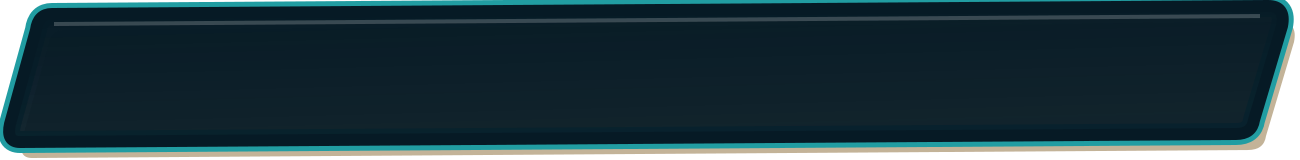
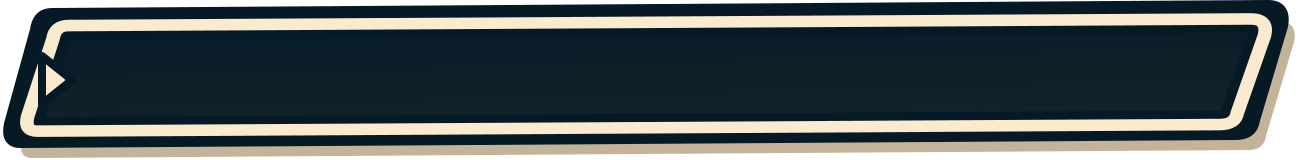
Improve Dashboard focus visibility and isolate Menu highlights

Changed region(s): [[0.0, 0.0, 1.0, 0.9688]]

diff --git a/src/client/flow/screens/shared.rs b/src/client/flow/screens/shared.rs
@@ -1,7 +1,10 @@
 //! Shared flow-screen roots, buttons, navigation, and interaction presentation.
 
 use super::{dashboard::DashboardButtonStyle, game_select::GameTypeSelectionDraft};
-use crate::client::{ClientLobbyMembership, flow::actions::FlowUiAction};
+use crate::client::{
+    ClientLobbyMembership,
+    flow::{actions::FlowUiAction, input::overlay_allows_button, model::ClientOverlay},
+};
 use bevy::{prelude::*, ui::InteractionDisabled};
 use lightyear::prelude::client::Client;
 
@@ -141,6 +144,13 @@ pub(in crate::client::flow) fn flow_button_background(
         if disabled {
             return Color::srgb(0.69, 0.71, 0.66);
         }
+        if focused && matches!(style, DashboardButtonStyle::Header) {
+            return if interaction == Interaction::Pressed {
+                CREAM.mix(&INK, 0.15)
+            } else {
+                CREAM
+            };
+        }
         let base = match style {
             DashboardButtonStyle::Play | DashboardButtonStyle::Header => ORANGE,
             DashboardButtonStyle::Build | DashboardButtonStyle::Practice => TEAL,
@@ -207,6 +217,7 @@ pub(in crate::client::flow) fn flow_button_border(
 )]
 pub(in crate::client::flow) fn update_flow_button_chrome(
     navigation: Res<FlowNavigation>,
+    overlay: Res<ClientOverlay>,
     assets: Option<Res<crate::client::ClientAssetHandles>>,
     game_draft: Res<GameTypeSelectionDraft>,
     memberships: Query<&ClientLobbyMembership, With<Client>>,
@@ -227,7 +238,14 @@ pub(in crate::client::flow) fn update_flow_button_chrome(
     for (button, interaction, disabled, mut background, mut border, dashboard_style, image) in
         &mut buttons
     {
-        let focused = button.index == navigation.selected;
+        // Use the same owner gate as input collection: indices are local to each surface.
+        let active = overlay_allows_button(&overlay, button);
+        let focused = active && button.index == navigation.selected;
+        let interaction = if active {
+            *interaction
+        } else {
+            Interaction::None
+        };
         let selected_game = match button.action {
             FlowUiAction::SelectGameTypeDraft(index) => game_draft.selected_index == Some(index),
             _ => false,
@@ -239,10 +257,10 @@ pub(in crate::client::flow) fn update_flow_button_chrome(
         let selected = selected_game || selected_brawler;
         let dashboard_style = dashboard_style.copied();
         background.0 =
-            flow_button_background(disabled, *interaction, focused, selected, dashboard_style);
+            flow_button_background(disabled, interaction, focused, selected, dashboard_style);
         border.set_all(flow_button_border(
             disabled,
-            *interaction,
+            interaction,
             focused,
             selected,
             dashboard_style,
@@ -259,7 +277,7 @@ pub(in crate::client::flow) fn update_flow_button_chrome(
                     DashboardButtonStyle::Header => 4,
                     DashboardButtonStyle::Preview => continue,
                 };
-                image.image = if !disabled && (focused || *interaction == Interaction::Hovered) {
+                image.image = if !disabled && focused {
                     assets.dashboard_focus_panels[index].clone()
                 } else {
                     assets.dashboard_panels[index].clone()
@@ -268,9 +286,9 @@ pub(in crate::client::flow) fn update_flow_button_chrome(
 
             image.color = if disabled {
                 Color::srgba(0.65, 0.65, 0.65, 0.7)
-            } else if *interaction == Interaction::Pressed {
+            } else if interaction == Interaction::Pressed {
                 Color::srgb(0.82, 0.86, 0.86)
-            } else if focused || *interaction == Interaction::Hovered {
+            } else if focused || interaction == Interaction::Hovered {
                 Color::srgb(1.08, 1.08, 1.08)
             } else {
                 Color::WHITE

diff --git a/src/client/flow/tests.rs b/src/client/flow/tests.rs
@@ -2435,10 +2435,111 @@ fn dashboard_settings_is_menu_owned_and_mode_card_opens_selection() {
     assert!(buttons(&mut app).contains(&FlowUiAction::OpenSettings));
     press_flow_button(&mut app, &FlowUiAction::CloseDashboardMenu);
     app.update();
+    assert_eq!(
+        app.world().resource::<FlowNavigation>().selected,
+        DASHBOARD_MENU_INDEX
+    );
     press_flow_button(&mut app, &FlowUiAction::OpenGameTypeSelect);
     app.update();
     assert_eq!(
         *app.world().resource::<State<ClientFlow>>().get(),
         ClientFlow::GameTypeSelect
+    );
+}
+
+#[test]
+fn dashboard_menu_focus_is_visible_without_pointer_hover() {
+    let style = Some(DashboardButtonStyle::Header);
+    assert_ne!(
+        flow_button_background(false, Interaction::None, true, false, style),
+        flow_button_background(false, Interaction::None, false, false, style),
+    );
+    assert_eq!(
+        flow_button_background(true, Interaction::None, true, false, style),
+        flow_button_background(true, Interaction::None, false, false, style),
+    );
+    assert_eq!(
+        flow_button_border(
+            false,
+            Interaction::None,
+            true,
+            false,
+            Some(DashboardButtonStyle::Preview)
+        ),
+        Color::NONE,
+    );
+}
+
+#[test]
+fn dashboard_chrome_focus_belongs_only_to_the_active_surface() {
+    let mut app = App::new();
+    app.init_resource::<FlowNavigation>()
+        .init_resource::<ClientOverlay>()
+        .init_resource::<screens::game_select::GameTypeSelectionDraft>()
+        .add_systems(Update, screens::shared::update_flow_button_chrome);
+    let mut buttons = Vec::new();
+    for overlay_owned in [false, true] {
+        for index in 0..2 {
+            buttons.push(
+                app.world_mut()
+                    .spawn((
+                        FlowButton {
+                            index,
+                            action: FlowUiAction::OpenDashboardMenu,
+                            error_action: overlay_owned,
+                        },
+                        DashboardButtonStyle::Header,
+                        Interaction::Hovered,
+                        BackgroundColor::default(),
+                        BorderColor::default(),
+                    ))
+                    .id(),
+            );
+        }
+    }
+    *app.world_mut().resource_mut::<ClientOverlay>() = ClientOverlay::DashboardMenu;
+    for selected in 0..2 {
+        app.world_mut().resource_mut::<FlowNavigation>().selected = selected;
+        app.update();
+        for (index, &entity) in buttons.iter().enumerate() {
+            let expected_focus = index == selected + 2;
+            let expected = flow_button_background(
+                false,
+                if index >= 2 {
+                    Interaction::Hovered
+                } else {
+                    Interaction::None
+                },
+                expected_focus,
+                false,
+                Some(DashboardButtonStyle::Header),
+            );
+            assert_eq!(
+                app.world().get::<BackgroundColor>(entity).unwrap().0,
+                expected
+            );
+        }
+    }
+    *app.world_mut().resource_mut::<ClientOverlay>() = ClientOverlay::None;
+    app.update();
+    assert_eq!(
+        app.world().get::<BackgroundColor>(buttons[1]).unwrap().0,
+        flow_button_background(
+            false,
+            Interaction::Hovered,
+            true,
+            false,
+            Some(DashboardButtonStyle::Header)
+        )
+    );
+    assert_eq!(
+        app.world().get::<BackgroundColor>(buttons[3]).unwrap().0,
+        flow_button_background(
+            false,
+            Interaction::None,
+            false,
+            false,
+            Some(DashboardButtonStyle::Header)
+        )
     );
 }

diff --git a/src/client/flow/reducer.rs b/src/client/flow/reducer.rs
@@ -19,7 +19,9 @@ use crate::client::{
         persistence::{ClientLocalLoadFailures, ConnectionPersistence, local_load_error},
         screens::{
             brawlers::{BrawlerCreationDraft, BrawlerEditDraft, WeaponEquipmentDraft},
-            dashboard::{DASHBOARD_PLAY_INDEX, DashboardNotice, DashboardReturnFocus},
+            dashboard::{
+                DASHBOARD_MENU_INDEX, DASHBOARD_PLAY_INDEX, DashboardNotice, DashboardReturnFocus,
+            },
             game_select::GameTypeSelectionDraft,
             server_select::{EditingField, ServerSelectModel},
             shared::FlowNavigation,
@@ -526,7 +528,7 @@ pub(super) fn resolve_flow_action(
         }
         FlowUiAction::CloseDashboardMenu | FlowUiAction::KeepServer => {
             commit.overlay = Some(OverlayCommit::Clear);
-            commit.focus_index = Some(5);
+            commit.focus_index = Some(DASHBOARD_MENU_INDEX);
         }
         FlowUiAction::RequestChangeServer => {
             commit.overlay = Some(OverlayCommit::ChangeServerConfirmation);

diff --git a/docs/tasks/BRL-0114-Implement_Approved_Native_Player_Dashboard_Design/spec.md b/docs/tasks/BRL-0114-Implement_Approved_Native_Player_Dashboard_Design/spec.md
@@ -97,3 +97,22 @@ Deliver geometry/background first, typography/header second, icons/assets/action
 
 ## User acceptance and commit
 User accepted the correction pass with “good, commit” on 2026-09-08. Visual feedback is accepted and the Dashboard slice is complete. Physical gamepad and enlarged UI-scale hands-on coverage were not performed; this limitation was disclosed before acceptance. Automated navigation coverage, native wide/compact rendering, pointer navigation and Settings Escape return are recorded above. Commit includes only the player-shell implementation, artwork/design records and related Ticket mirrors; unrelated VFX, gameplay data and repository-guide changes remain uncommitted.
+
+
+## Gamepad focus feedback (2026-09-08)
+User reports the navigation-selected button is insufficiently visible. Reopen for a focused correction: replace the subtle teal edge with a bold cream/navy inset frame and directional focus marker, distinguish navigation focus from mouse hover, keep disabled controls unaccented, and retain the transparent hero preview. Focus must be legible without animation or device-specific button prompts. Verify generated chrome and existing navigation tests; user gamepad review remains the acceptance check.
+
+
+### Focus correction evidence
+Implemented bold navy/cream double framing and a left focus pointer in every Dashboard focus-panel export. Only the navigation-focused control uses that artwork; pointer hover retains a lighter tint so a parked cursor cannot create a second strong focus marker. Menu-overlay focused rows use cream fill, including when the pointer is absent. Disabled rows keep their disabled treatment; the preview stays transparent. No animation or controller-specific glyph is required.
+Native screenshot confirms the new Play focus treatment against unselected mode/Practice controls. Client build, client-library Clippy with -D warnings, all 10 targeted Dashboard tests (including a new pointer-independent menu-focus regression), formatting and diff whitespace checks pass. Physical gamepad subjective confirmation remains with the user; keep doing until this feedback is accepted. Changes are not committed yet.
+
+
+### Menu focus ownership regression
+User reports gamepad selection highlights Menu and Dashboard simultaneously. Shared navigation indices are intentionally reused, but Dashboard chrome must not show navigation focus while an overlay owns input. Scope: suppress background Dashboard focus during overlays while retaining active Menu focus, keep selection indices and actions unchanged, and add a focused ECS regression covering matching indices and focus restoration after closing Menu.
+
+The fix reuses overlay_allows_button, the production input-owner predicate, for focus and hover/press chrome. It applies consistently to Menu, Settings and other overlays instead of adding a Dashboard-only input path. Also replaced the obsolete Menu-return index 5 with DASHBOARD_MENU_INDEX (4). Regression coverage cycles matching Dashboard/Menu indices, checks background hover suppression, checks focus restoration when the overlay clears, and asserts the actual close-Menu action restores the Menu button.
+
+Verification after the final Menu-return correction: all 11 targeted Dashboard tests pass; canonical client binary build and client-library Clippy with warnings denied pass; diff whitespace check passes. Menu-only visual focus and return-to-Menu focus are covered by regression tests. Ready for the user's gamepad retry; changes remain uncommitted with the stronger-focus correction.
+
+User accepted both focus corrections with “ok commit” on 2026-09-08. Close the reopened feedback: stronger navigation focus, active-overlay-only highlights, and Menu-return focus are implemented and accepted. Lesson: input routing and visual focus must share the same ownership predicate; shared indices alone do not identify the active control.

diff --git a/docs/design/player-shell/README.md b/docs/design/player-shell/README.md
@@ -48,4 +48,4 @@ First slice is native Dashboard and Menu access. Subsequent slices cover game se
 
 ### Dashboard correction details
 
-Dashboard controls use slanted SVG-authored chrome with substantial navy outlines, crisp offset backing and separate shaped focus outlines. PNG exports are stretched across the native control's border box; only decoration is rasterized. Text and hit targets remain native. Header identity is one horizontal player/name/divider/arena/server strip. Play carries a right-hand lightning icon; Practice a right-hand crosshair; View Brawlers uses a cream skull and cream type. The brawler name and pointed underline are an independent visual anchor; long names wrap with a bounded type size. The summary presents live weapon/ultimate names and passive/slot counts. Routine successful-save notices are omitted from the Dashboard, while recovery feedback remains visible. Preview hover never draws a rectangular frame; the cyan pedestal is removed.
+Dashboard controls use slanted SVG-authored chrome with substantial navy outlines, crisp offset backing and a bold cream/navy focus frame and left pointer. Navigation focus uses this treatment; hover alone only changes tint, and disabled controls remain unaccented. Only the active screen or overlay shows focus and interaction feedback; opening Menu suppresses Dashboard highlights, and closing it returns focus to the Menu button. PNG exports are stretched across the native control's border box; only decoration is rasterized. Text and hit targets remain native. Header identity is one horizontal player/name/divider/arena/server strip. Play carries a right-hand lightning icon; Practice a right-hand crosshair; View Brawlers uses a cream skull and cream type. The brawler name and pointed underline are an independent visual anchor; long names wrap with a bounded type size. The summary presents live weapon/ultimate names and passive/slot counts. Routine successful-save notices are omitted from the Dashboard, while recovery feedback remains visible. Preview hover never draws a rectangular frame; the cyan pedestal is removed.

diff --git a/docs/tasks/BRL-0114-Implement_Approved_Native_Player_Dashboard_Design/ticket.md b/docs/tasks/BRL-0114-Implement_Approved_Native_Player_Dashboard_Design/ticket.md
@@ -5,9 +5,9 @@ status: done
 theme:
 release:
 created: 2026-09-07T16:23:26Z
-modified: 2026-09-08T08:33:08Z
-closed: 2026-09-08T08:33:08Z
-revision: 3e6ea25065a99475
+modified: 2026-09-08T15:59:48Z
+closed: 2026-09-08T15:59:48Z
+revision: 30766a87f561265a
 blocks: []
 related: []
 ---
